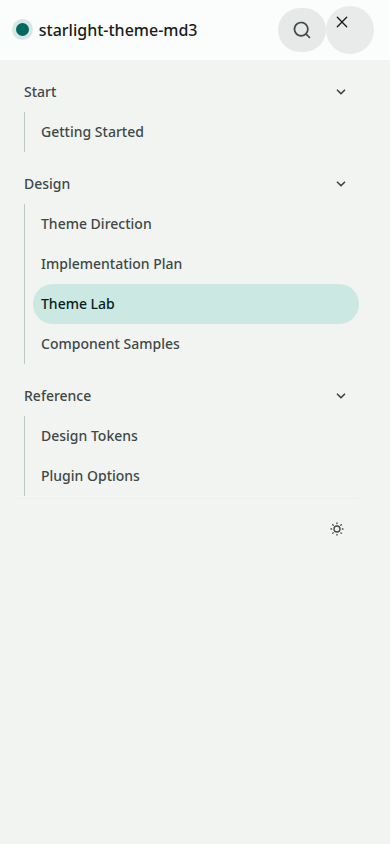
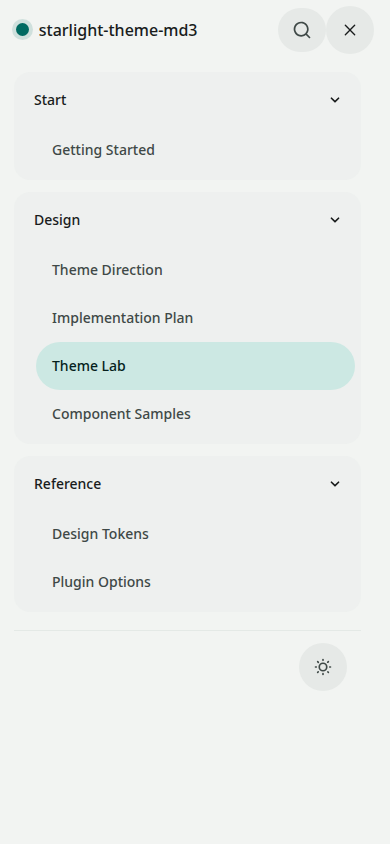
feat: mobile ui

diff --git a/src/styles/md3/layout.css b/src/styles/md3/layout.css
@@ -280,11 +280,28 @@
 		position: fixed !important;
 		background-color: transparent;
 		color: var(--md-sys-color-on-surface);
+		border-radius: var(--md-sys-shape-full);
 		box-shadow: none;
+	}
+
+	starlight-menu-button button .icon {
+		inline-size: 1.25rem;
+		block-size: 1.25rem;
 	}
 
 	starlight-menu-button button:hover {
 		background-color: var(--md3-state-on-surface-hover);
+	}
+
+	starlight-menu-button[aria-expanded='true'] button {
+		background-color: var(--md-sys-color-surface-container-high);
+	}
+
+	.mobile-preferences {
+		margin-block-start: 0.5rem;
+		padding-block: 0.75rem 0.5rem;
+		padding-inline: 0.5rem 0.875rem;
+		border-top: 1px solid color-mix(in srgb, var(--md-sys-color-outline-variant) 26%, transparent);
 	}
 
 	.content-panel {
@@ -431,6 +448,90 @@
 	@media (min-width: 50rem) {
 		.sidebar-pane {
 			border-start-end-radius: var(--md-sys-shape-lg);
+		}
+	}
+
+	@media (max-width: 49.999rem) {
+		starlight-menu-button button {
+			display: grid;
+			place-items: center;
+		}
+
+		.sidebar-pane {
+			background-color: var(--md-sys-color-surface-container-low);
+		}
+
+		.sidebar-content {
+			gap: 0.625rem;
+			padding-block: 0.75rem 1rem;
+			padding-inline: 0.875rem;
+		}
+
+		.sidebar-content details {
+			border-radius: var(--md-sys-shape-lg);
+			background-color: color-mix(
+				in srgb,
+				var(--md-sys-color-surface-container) 52%,
+				transparent
+			);
+			padding-block: 0.25rem 0.375rem;
+			padding-inline: 0.375rem;
+		}
+
+		.sidebar-content details[open],
+		.sidebar-content details[data-md3-disclosure-state='opening'] {
+			background-color: color-mix(
+				in srgb,
+				var(--md-sys-color-surface-container) 72%,
+				transparent
+			);
+		}
+
+		.sidebar-content summary {
+			min-height: 3rem;
+			border-radius: var(--md-sys-shape-full);
+			color: var(--md-sys-color-on-surface);
+			font-size: var(--md-sys-typescale-title-small-size);
+			font-weight: var(--md-sys-typescale-title-small-weight);
+			line-height: var(--md-sys-typescale-title-small-line-height);
+			padding-block: 0.25rem;
+			padding-inline: 0.875rem 0.625rem;
+		}
+
+		.sidebar-content .large {
+			color: inherit;
+			font-size: inherit;
+			font-weight: inherit;
+			line-height: inherit;
+		}
+
+		.sidebar-content details > ul {
+			border-inline-start: 0;
+			margin-block-start: 0.125rem;
+			margin-inline-start: 0;
+			padding-inline-start: 0;
+		}
+
+		.sidebar-content details :where(ul, li) {
+			border-inline-start: 0;
+		}
+
+		.sidebar-content details[data-md3-disclosure-state] > ul {
+			border-inline-start: 0;
+		}
+
+		.sidebar-content a {
+			min-height: 3rem;
+			border-radius: var(--md-sys-shape-full);
+			padding-block: 0.25rem;
+			padding-inline: 1rem;
+		}
+
+		.sidebar-content [aria-current='page'],
+		.sidebar-content [aria-current='page']:hover,
+		.sidebar-content [aria-current='page']:focus-visible {
+			background-color: var(--md-sys-color-secondary-container);
+			color: var(--md-sys-color-on-secondary-container);
 		}
 	}
 }

diff --git a/tests/theme-screenshots.spec.ts b/tests/theme-screenshots.spec.ts
@@ -702,7 +702,7 @@ test.describe('Theme MD3 component contracts', () => {
 				inlineSize: styles.inlineSize,
 				minBlockSize: styles.minBlockSize,
 				visibleIcons: [...button.querySelectorAll('.md3-theme-select__button-icon')].filter(
-					(icon) => getComputedStyle(icon).display !== 'none'
+					(icon) => Number.parseFloat(getComputedStyle(icon).opacity) > 0.99
 				).length,
 				visibleText: button.textContent?.trim() ?? '',
 			};
@@ -854,6 +854,77 @@ test.describe('Theme MD3 component contracts', () => {
 		await expect.poll(() => details.evaluate((element) => element.dataset.md3DisclosureState ?? '')).toBe('opening');
 		await expect.poll(() => details.evaluate((element) => element.dataset.md3DisclosureState ?? '')).toBe('');
 		await expect.poll(() => details.evaluate((element) => (element as HTMLDetailsElement).open)).toBe(true);
+	});
+
+	test('mobile drawer theme button keeps the active icon centered', async ({ page }) => {
+		await page.setViewportSize(viewports.find((viewport) => viewport.name === 'mobile')!.size);
+		await page.emulateMedia({ reducedMotion: 'no-preference' });
+		await setThemeBeforeNavigation(page, 'light');
+		await page.goto('/guides/theme-lab/');
+		await page.locator('main').waitFor({ state: 'visible' });
+
+		await page.locator('starlight-menu-button button').click();
+		await expect(page.locator('starlight-menu-button')).toHaveAttribute('aria-expanded', 'true');
+
+		const themeButton = page.locator('.mobile-preferences starlight-theme-select .md3-theme-select__button');
+		await expect(themeButton).toBeVisible();
+		await expect
+			.poll(() =>
+				themeButton.evaluate(
+					(button) =>
+						[...button.querySelectorAll('.md3-theme-select__button-icon')].filter(
+							(icon) => Number.parseFloat(getComputedStyle(icon).opacity) > 0.99
+						).length
+				)
+			)
+			.toBe(1);
+
+		const contract = await themeButton.evaluate((button) => {
+			const buttonBox = button.getBoundingClientRect();
+			const visibleIcon = [...button.querySelectorAll('.md3-theme-select__button-icon')].find(
+				(icon) => Number.parseFloat(getComputedStyle(icon).opacity) > 0.99
+			);
+			if (!(visibleIcon instanceof Element)) throw new Error('Expected one visible theme icon.');
+			const iconBox = visibleIcon.getBoundingClientRect();
+			const styles = getComputedStyle(button);
+			return {
+				backgroundColor: styles.backgroundColor,
+				buttonBlockSize: buttonBox.height,
+				buttonInlineSize: buttonBox.width,
+				centerDeltaX: Math.abs(buttonBox.left + buttonBox.width / 2 - (iconBox.left + iconBox.width / 2)),
+				centerDeltaY: Math.abs(buttonBox.top + buttonBox.height / 2 - (iconBox.top + iconBox.height / 2)),
+				visibleIcons: [...button.querySelectorAll('.md3-theme-select__button-icon')].filter(
+					(icon) => Number.parseFloat(getComputedStyle(icon).opacity) > 0.99
+				).length,
+			};
+		});
+
+		expect(contract.buttonInlineSize).toBe(48);
+		expect(contract.buttonBlockSize).toBe(48);
+		expect(contract.visibleIcons).toBe(1);
+		expect(contract.centerDeltaX).toBeLessThanOrEqual(0.5);
+		expect(contract.centerDeltaY).toBeLessThanOrEqual(0.5);
+		expect(contract.backgroundColor).not.toBe('rgba(0, 0, 0, 0)');
+
+		await themeButton.click();
+		const menu = page.locator('.mobile-preferences starlight-theme-select .md3-theme-select__menu');
+		await expect(menu).toBeVisible();
+		const menuContract = await page.evaluate(() => {
+			const button = document.querySelector('.mobile-preferences starlight-theme-select .md3-theme-select__button');
+			const menu = document.querySelector('.mobile-preferences starlight-theme-select .md3-theme-select__menu');
+			if (!(button instanceof HTMLElement) || !(menu instanceof HTMLElement)) {
+				throw new Error('Expected mobile theme button and menu.');
+			}
+			const buttonBox = button.getBoundingClientRect();
+			const menuBox = menu.getBoundingClientRect();
+			return {
+				bottomGap: buttonBox.top - menuBox.bottom,
+				rightDelta: Math.abs(buttonBox.right - menuBox.right),
+			};
+		});
+		expect(menuContract.bottomGap).toBeGreaterThanOrEqual(7);
+		expect(menuContract.bottomGap).toBeLessThanOrEqual(9);
+		expect(menuContract.rightDelta).toBeLessThanOrEqual(1);
 	});
 });
 

diff --git a/src/index.ts b/src/index.ts
@@ -527,13 +527,13 @@ function getMotionRuntimeScript() {
 		const isClosing = details.open;
 		const duration = getMotionDuration(
 			isClosing ? '--md3-motion-duration-sidebar-collapse' : '--md3-motion-duration-sidebar-expand',
-			isClosing ? 200 : 300
+			isClosing ? 300 : 400
 		);
 		if (duration <= 0) return false;
 
 		const easing = isClosing
 			? getMotionEasing('--md-sys-motion-easing-emphasized-accelerate', 'cubic-bezier(0.3, 0, 0.8, 0.15)')
-			: getMotionEasing('--md-sys-motion-easing-standard', 'cubic-bezier(0.2, 0, 0, 1)');
+			: getMotionEasing('--md-sys-motion-easing-emphasized-decelerate', 'cubic-bezier(0.05, 0.7, 0.1, 1)');
 		details.dataset.md3DisclosureState = isClosing ? 'closing' : 'opening';
 
 		if (!isClosing) {

diff --git a/src/styles/md3/tokens.css b/src/styles/md3/tokens.css
@@ -145,8 +145,8 @@
 		--md3-motion-duration-state: var(--md-sys-motion-duration-short3);
 		--md3-motion-duration-control: var(--md-sys-motion-duration-short4);
 		--md3-motion-duration-nav: var(--md-sys-motion-duration-short4);
-		--md3-motion-duration-sidebar-expand: var(--md-sys-motion-duration-medium2);
-		--md3-motion-duration-sidebar-collapse: var(--md-sys-motion-duration-short4);
+		--md3-motion-duration-sidebar-expand: var(--md-sys-motion-duration-medium4);
+		--md3-motion-duration-sidebar-collapse: var(--md-sys-motion-duration-medium2);
 		--md3-motion-duration-toc-marker: var(--md-sys-motion-duration-medium2);
 		--md3-motion-duration-toc-color: var(--md-sys-motion-duration-short4);
 		--md3-motion-duration-ripple-grow: 450ms;